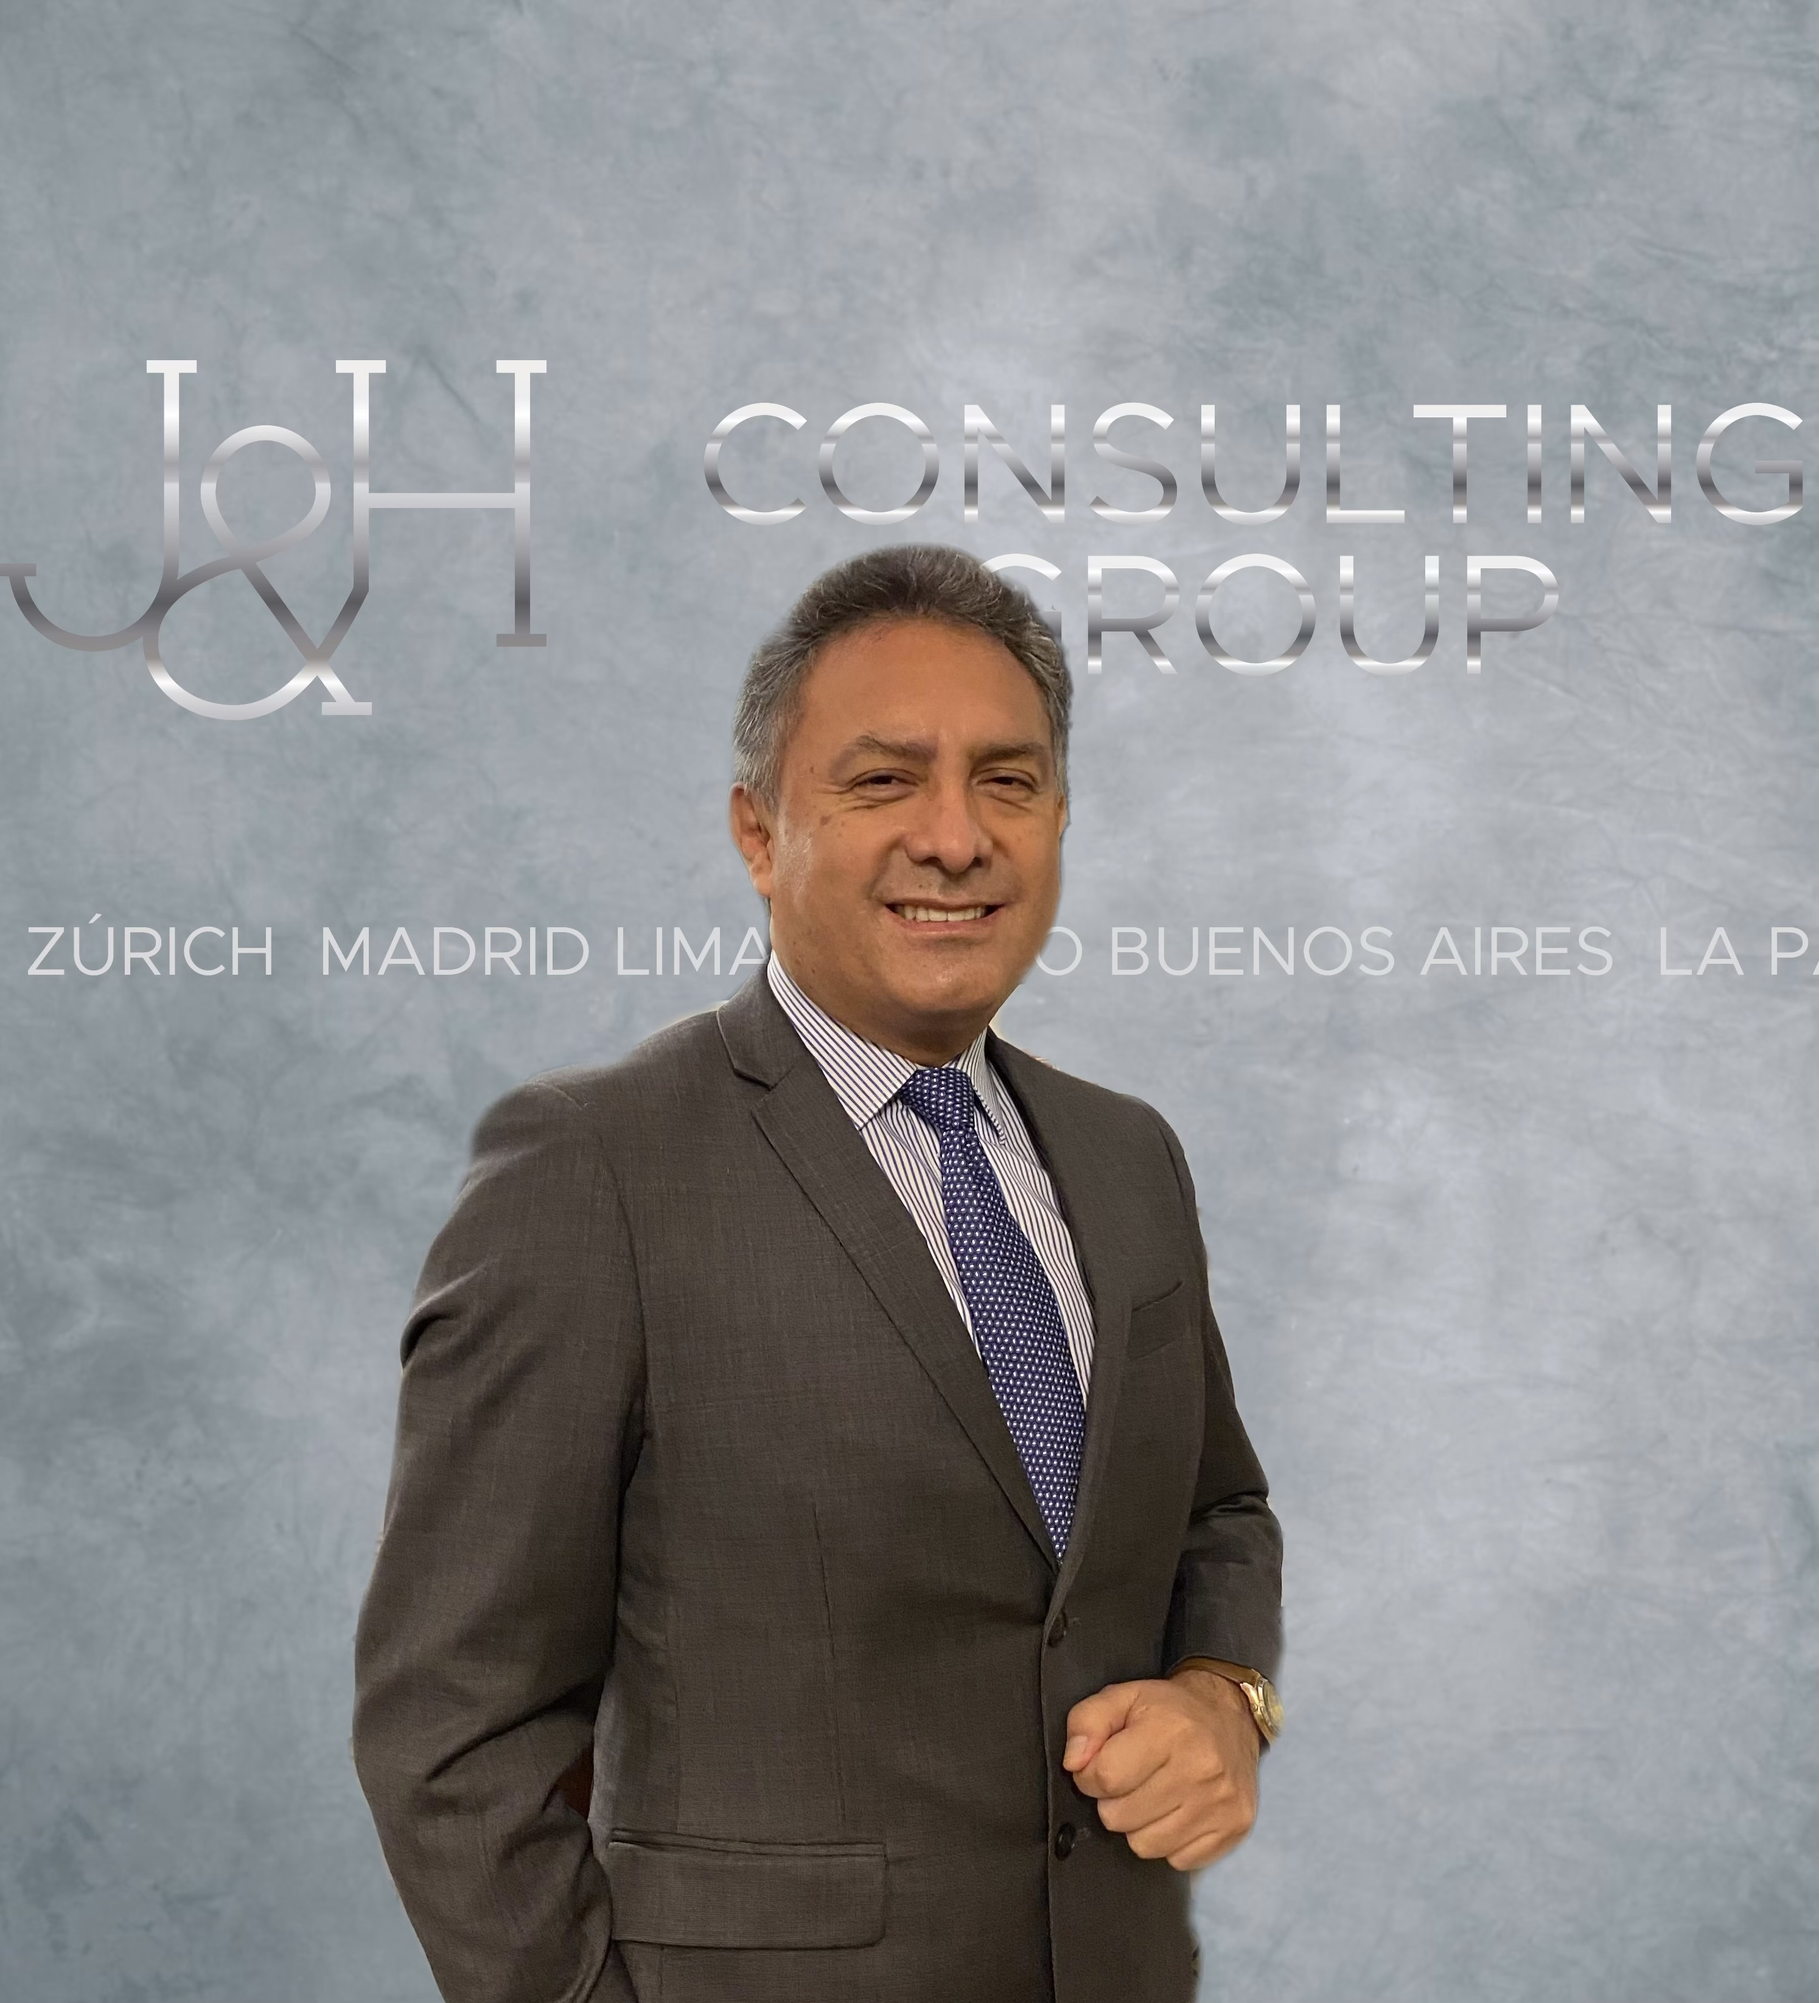
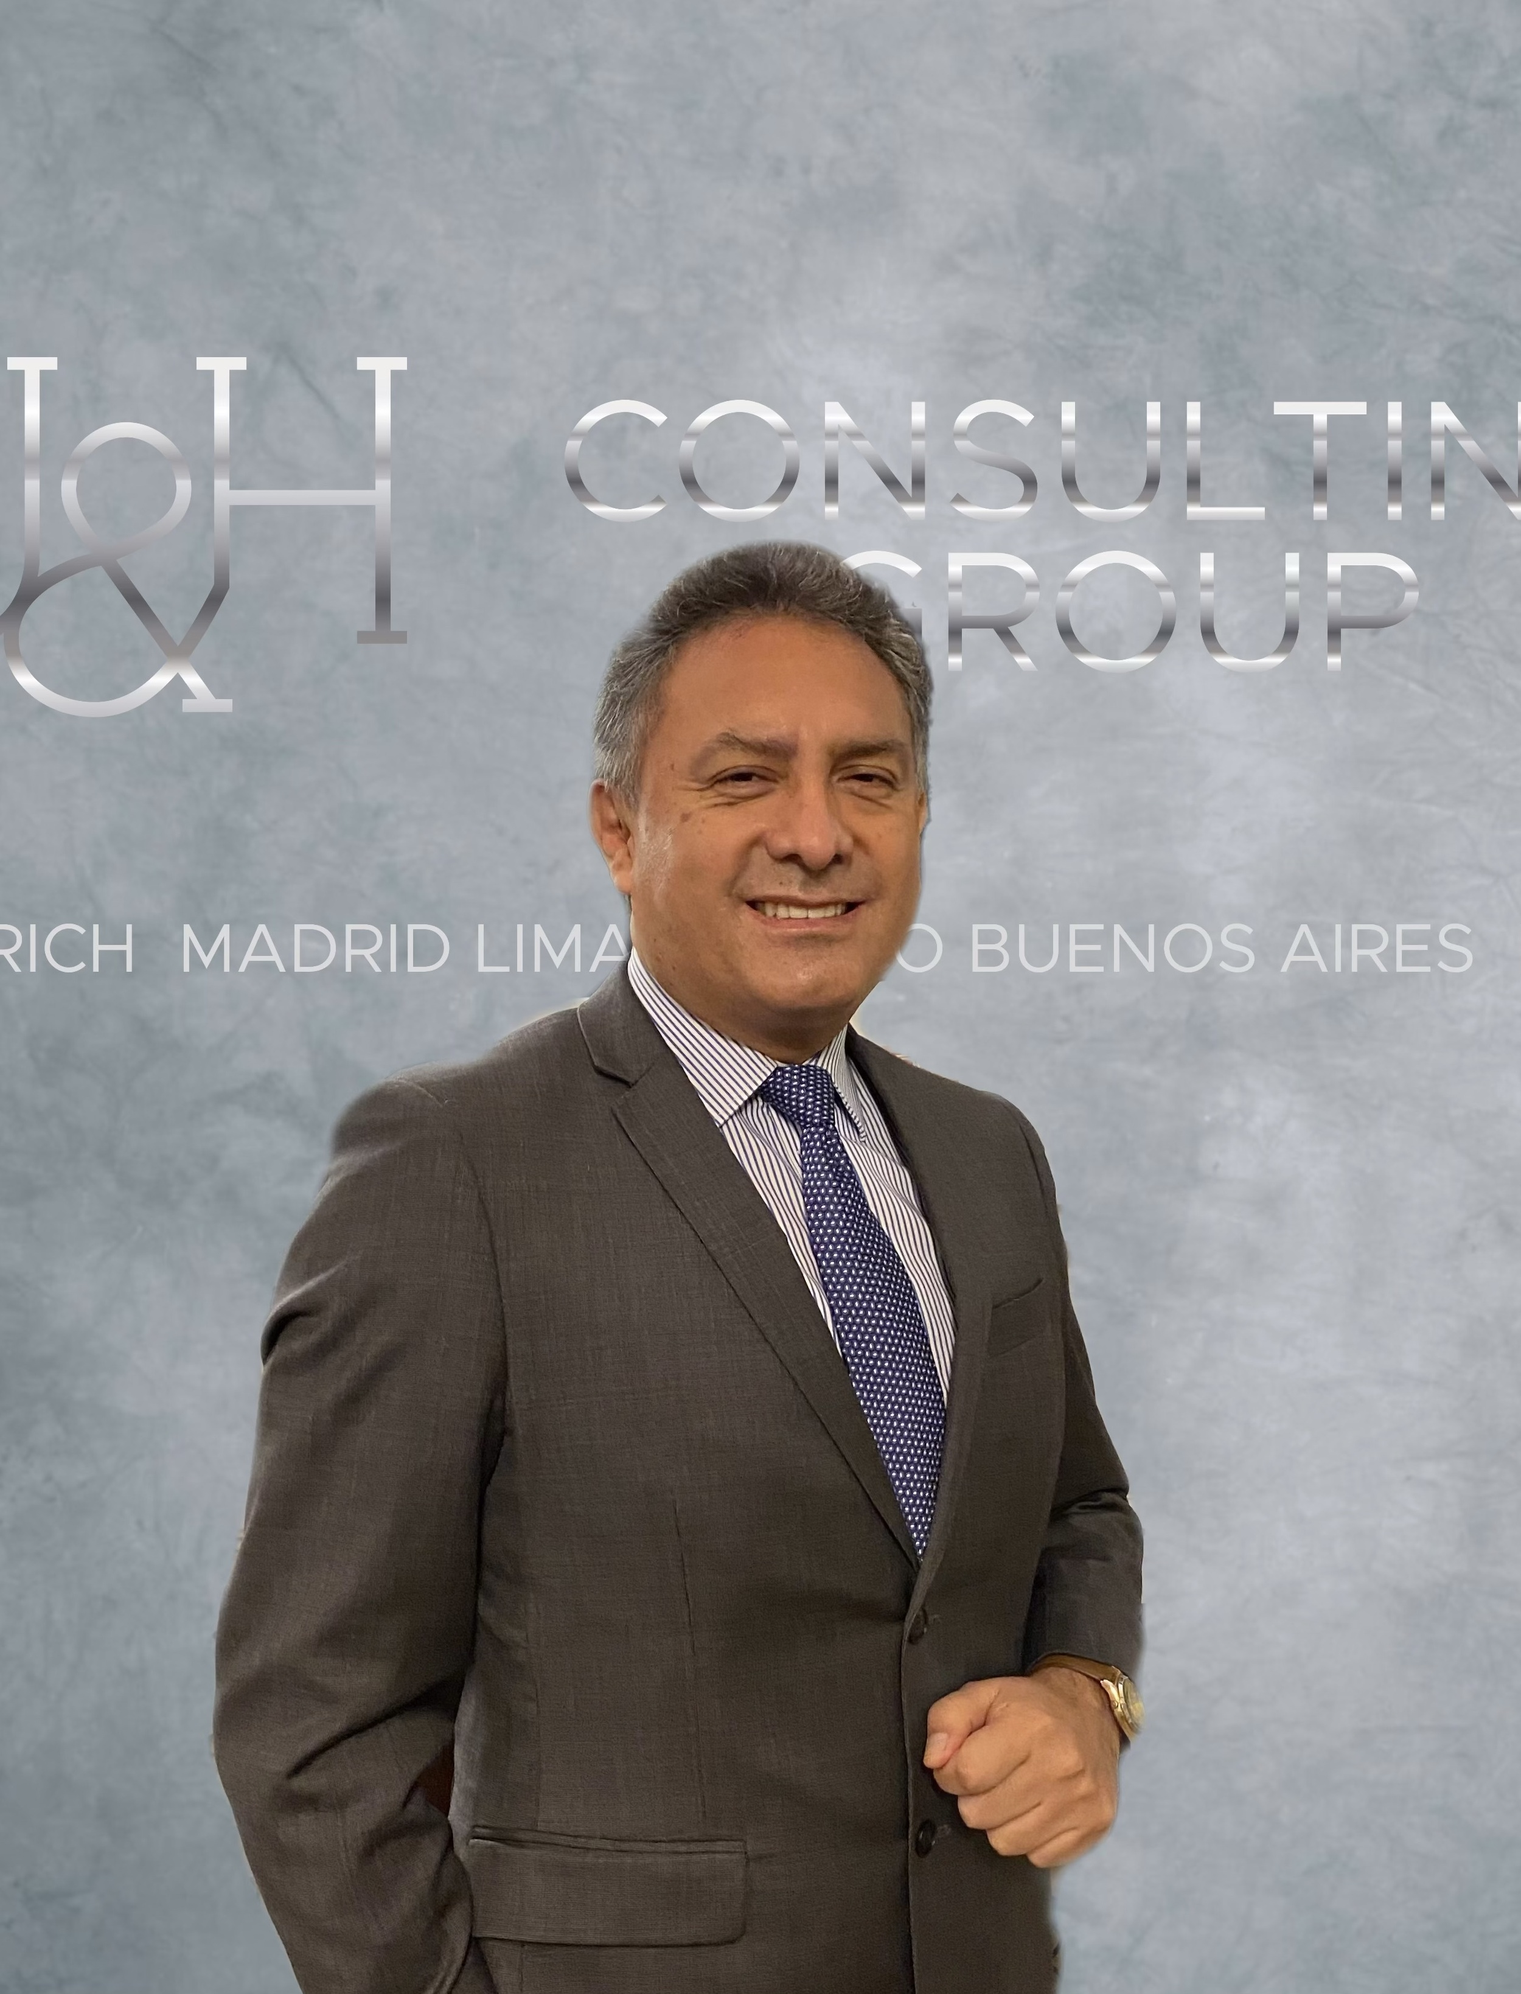
Adjustments
Vertically aloigned our Team (not centered yet), cropped carlos image + minor adjustments fuck this project btw

diff --git a/experience.html b/experience.html
@@ -17,22 +17,57 @@
       <a href="/ourTeam.html" class="jaico-bar-item jaico-button-bar jaico-button-margin-right jaico-link-styling" style="font-size: 120%;">Nosotros</a>
       <a href="/experience.html" class="jaico-bar-item jaico-button-bar jaico-button-margin-right jaico-link-styling" style="font-size: 120%;">Experiencia</a>
       <a href="/associates.html" class="jaico-bar-item jaico-button-bar jaico-button-margin-right jaico-link-styling" style="font-size: 120%;">Asociados</a>
+      <a href="/contact.html" class="jaico-bar-item jaico-button-bar jaico-button-margin-right jaico-link-styling" style="font-size: 100%;">CONTACTO</a>
     </div>
   </div>
 </div>
 <div>
-<div class="jaico-padding-16">
+<div class="jaico-padding-64">
     <div class="jaico-center">
       <h2>Experiencia</h2>
     </div>
+    <button type="button" class="collapsible"> <h3>- Inversiones</h3></button>
+    <div class="content">
+      <p>Sector con alto valor añadido</p>
+    </div>
+    <button type="button" class="collapsible"> <h3>- Empressarial</h3></button>
+    <div class="content">
+      <p>
+         - Proteccion de datos y de gobierno digital <br>
+         - Fusiones y Aquisiciones <br>
+         - Internacionalizaciones <br>
+         - Complica y lucha contra la corrupcion.
+    </p>
+    </div>
+    <button type="button" class="collapsible"> <h3>- Legal</h3></button>
+    <div class="content">
+      <p>Sector con alto valor añadido</p>
+    </div>
+    <button type="button" class="collapsible"> <h3>- Institucional</h3></button>
+<div class="content">
+  <p>Asesoramiento a Gobiernos nacionales y locales, <br> Instituciones y ONGs</p>
 </div>
-  <div class="jaico-right jaico-padding-32">
-    Phasellus eget enim eu lectus faucibus <br> vestibulum. Suspendisse sodalesPhasellus eget enim eu lectus faucibus <br> vestibulum. Suspendisse sodalesPhasellus eget enim eu lectus faucibus <br> vestibulum. Suspendisse sodalesPhasellus eget enim eu lectus faucibus <br> vestibulum. Suspendisse sodalesPhasellus eget enim eu lectus faucibus <br> vestibulum. Suspendisse sodalesPhasellus eget enim eu lectus faucibus <br> vestibulum. Suspendisse sodalesPhasellus eget enim eu lectus faucibus <br> vestibulum. Suspendisse sodalesPhasellus eget enim eu lectus faucibus <br> vestibulum. Suspendisse sodalesPhasellus eget enim eu lectus faucibus <br> vestibulum. Suspendisse sodalesPhasellus eget enim eu lectus faucibus <br> vestibulum. Suspendisse sodales
-  </div>
-  <div class="jaico-padding-16 jaico-left">
-   
+</div>
 
-  </div>
+
+    <script>
+        var coll = document.getElementsByClassName("collapsible");
+var i;
+
+for (i = 0; i < coll.length; i++) {
+  coll[i].addEventListener("click", function() {
+    this.classList.toggle("active");
+    var content = this.nextElementSibling;
+    if (content.style.display === "block") {
+      content.style.display = "none";
+    } else {
+      content.style.display = "block";
+    }
+  });
+}
+    </script>
+    
+</div>
 </div>
 </body>
 

diff --git a/ourTeam.html b/ourTeam.html
@@ -18,6 +18,7 @@
       <a href="/ourTeam.html" class="jaico-bar-item jaico-button-bar jaico-button-margin-right jaico-link-styling" style="font-size: 120%;">Nosotros</a>
       <a href="/experience.html" class="jaico-bar-item jaico-button-bar jaico-button-margin-right jaico-link-styling" style="font-size: 120%;">Experiencia</a>
       <a href="/associates.html" class="jaico-bar-item jaico-button-bar jaico-button-margin-right jaico-link-styling" style="font-size: 120%;">Asociados</a>
+      <a href="/contact.html" class="jaico-bar-item jaico-button-bar jaico-button-margin-right jaico-link-styling" style="font-size: 100%;">CONTACTO</a>
     </div>
   </div>
 </div>
@@ -37,19 +38,21 @@
 
 <div class="jaico-row-padding jaico-grayscale">
   <div class="jaico-col l3 m6 jaico-margin-bottom">
-    <img src="/jaicoimages/team2.jpg" alt="John" style="width:500%">
-    <h3>John Doe</h3>
-    <p class="jaico-opacity">CEO & Founder</p>
+    <img src="/Images/Headshot_Miriam_NEW.jpg" alt="Miriam" style="width:100%">
+    <h3>Miriam Herrero Mondelo</h3>
+    <p class="jaico-opacity">CEO, Socia, Co-Founder.</p>
     <p>Phasellus eget enim eu lectus faucibus vestibulum. Suspendisse sodales pellentesque elementum.</p>
-    <p><button class="jaico-button jaico-light-grey jaico-block">Contact</button></p>
+    <p><button class="jaico-button jaico-light-grey jaico-block">Informacion</button></p>
   </div>
   <div class="jaico-col l3 m6 jaico-margin-bottom">
-    <img src="/jaicoimages/team1.jpg" alt="Jane" style="width:100%">
-    <h3>Jane Doe</h3>
-    <p class="jaico-opacity">Architect</p>
+    <img src="/Images/Carlos_Jaico_Headshot_New.jpg" alt="Carlos" style="width:99.4%;">
+    <h3>Carlos Jaico</h3> 
+    <p class="jaico-opacity">Socio, Co Founder, Senior Consultor</p>
     <p>Phasellus eget enim eu lectus faucibus vestibulum. Suspendisse sodales pellentesque elementum.</p>
     <p><button class="jaico-button jaico-light-grey jaico-block">Contact</button></p>
   </div>
+</div>
+<div class="jaico-row-padding jaico-grayscale">
   <div class="jaico-col l3 m6 jaico-margin-bottom">
     <img src="/jaicoimages/team3.jpg" alt="Mike" style="width:100%">
     <h3>Mike Ross</h3>

diff --git a/style.css b/style.css
@@ -338,6 +338,8 @@ a {
     background-color: #ccc
 }
 
+
+
 .jaico-centered tr th,
 .jaico-centered tr td {
     text-align: center
@@ -352,6 +354,8 @@ a {
     text-align: left;
     vertical-align: top
 }
+
+
 
 .jaico-table th:first-child,
 .jaico-table td:first-child,
@@ -1470,6 +1474,27 @@ a {
     margin-top: 16px !important
 }
 
+.collapsible {
+    background-color: #eee;
+    color: #444;
+    cursor: pointer;
+    padding: 18px;
+    width: 100%;
+    border: none;
+    text-align: left;
+    outline: none;
+    font-size: 15px;
+  }
+
+  .content {
+    padding: 0 18px;
+    display: none;
+    overflow: hidden;
+    background-color: #f1f1f1;
+  }
+
+  
+
 .jaico-margin-bottom {
     margin-bottom: 16px !important
 }
@@ -1485,6 +1510,8 @@ a {
 .jaico-padding-small {
     padding: 4px 8px !important
 }
+
+.jaico-padd
 
 .jaico-padding {
     padding: 8px 16px !important

diff --git a/associates.html b/associates.html
@@ -16,10 +16,11 @@
       <a href="/ourTeam.html" class="jaico-bar-item jaico-button-bar jaico-button-margin-right jaico-link-styling" style="font-size: 120%;">Nosotros</a>
       <a href="/experience.html" class="jaico-bar-item jaico-button-bar jaico-button-margin-right jaico-link-styling" style="font-size: 120%;">Experiencia</a>
       <a href="/associates.html" class="jaico-bar-item jaico-button-bar jaico-button-margin-right jaico-link-styling" style="font-size: 120%;">Asociados</a>
+      <a href="/contact.html" class="jaico-bar-item jaico-button-bar jaico-button-margin-right jaico-link-styling" style="font-size: 100%;">CONTACTO</a>
     </div>
   </div>
 </div>
-<div class="jaico-padding-16">
+<div class="jaico-padding-64">
     <div class="jaico-center">
       <h2>Asociados</h2>
     </div>

diff --git a/contact.html b/contact.html
@@ -17,6 +17,7 @@
       <a href="/ourTeam.html" class="jaico-bar-item jaico-button-bar jaico-button-margin-right jaico-link-styling" style="font-size: 120%;">Nosotros</a>
       <a href="/experience.html" class="jaico-bar-item jaico-button-bar jaico-button-margin-right jaico-link-styling" style="font-size: 120%;">Experiencia</a>
       <a href="/associates.html" class="jaico-bar-item jaico-button-bar jaico-button-margin-right jaico-link-styling" style="font-size: 120%;">Asociados</a>
+      <a href="/contact.html" class="jaico-bar-item jaico-button-bar jaico-button-margin-right jaico-link-styling" style="font-size: 100%;">CONTACTO</a>
     </div>
   </div>
 </div>

diff --git a/index.html b/index.html
@@ -34,10 +34,7 @@
 <!-- Page content -->
 <div class="jaico-content jaico-padding" style="max-width:1564px">
 
-  <!-- About -->
-  <div class="jaico-container jaico-padding-32" id="about">
-    <h3 class="jaico-border-bottom jaico-border-light-grey jaico-padding-16">Que es JaicoHerrero?</h3>
-  </div>
+  
 
 
 
